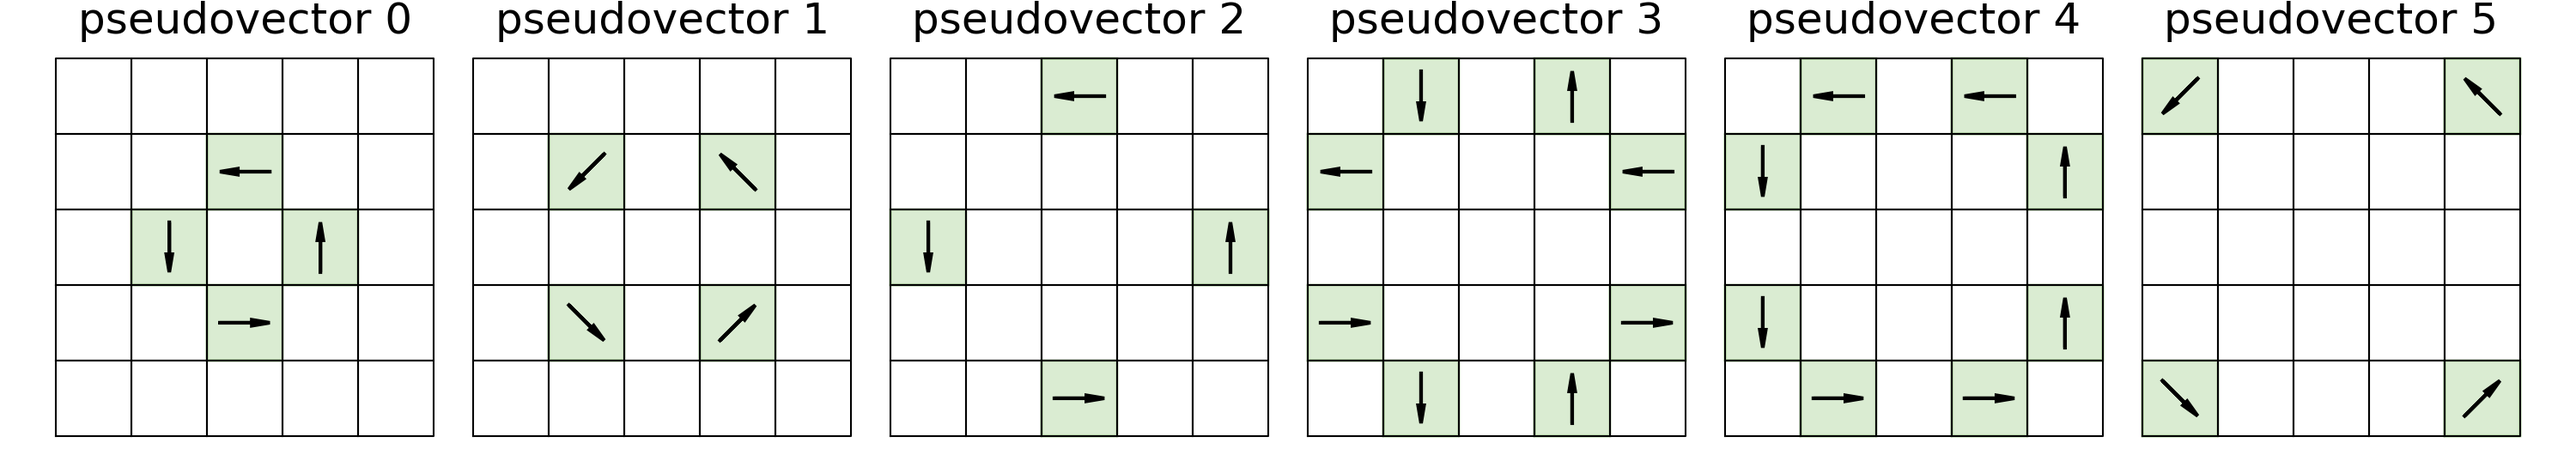
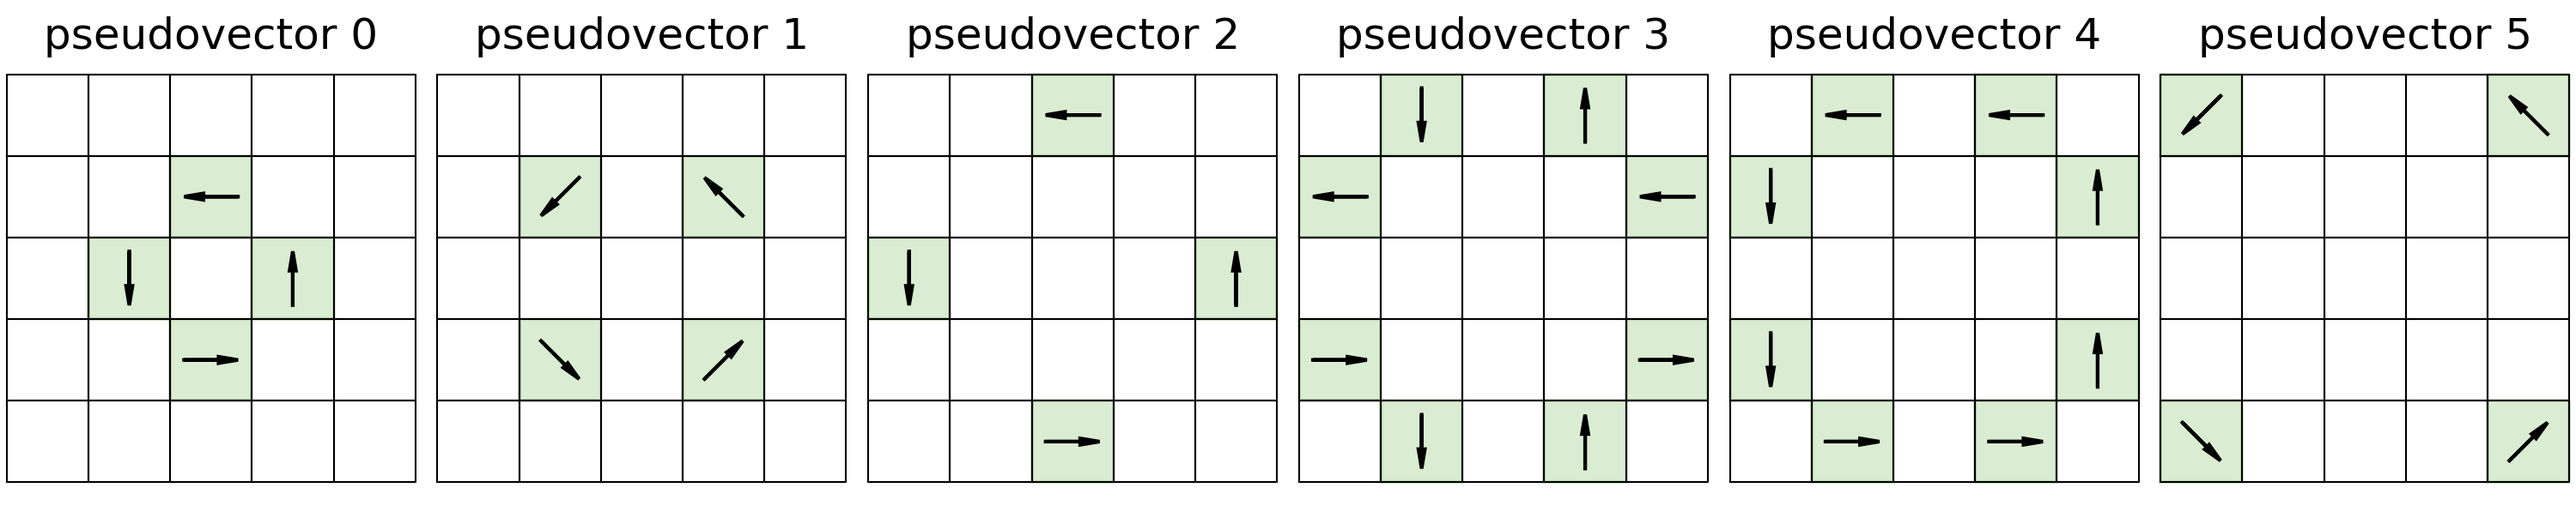
tweak plot layout

Changed region(s): [[0.0, 0.0, 1.0, 0.966]]

diff --git a/notebooks/geometric.py b/notebooks/geometric.py
@@ -506,13 +506,11 @@ def plot_nothing(ax):
 def plot_filters(filters, names, n):
     assert len(filters) <= n
     bar = 10. # figure width in inches?
-    fig, axes = plt.subplots(1, n, figsize = (bar, 0.1 + bar / n)) # magic
+    fig, axes = plt.subplots(1, n, figsize = (bar, 0.03 * bar + bar / n)) # magic
     if n == 1:
         axes = [axes, ]
-    bar = 0.2
-    foo = bar / n # fractional?
-    plt.subplots_adjust(left=foo/2, right=1-foo/2, wspace=foo,
-                        bottom=foo)
+    plt.subplots_adjust(left=0.001, right=0.999, wspace=0.2/n,
+                        bottom=0.001, top=0.999-0.1, hspace=0)
     for i, (ff, name) in enumerate(zip(filters, names)):
         if ff.k == 0:
             plot_scalar_filter(ff, name, ax=axes[i])
@@ -758,12 +756,10 @@ def plot_images(images):
     m = np.ceil(nim / n).astype(int)
     print(len(images), n, m)
     bar = 10. # inches?
-    fig, axes = plt.subplots(m, n, figsize = (bar, 0.5 + 0.5 * m + bar * m / n)) # magic
+    fig, axes = plt.subplots(m, n, figsize = (bar, 0.2 * m + bar * m / n)) # magic
     axes = np.atleast_1d(axes).flatten()
-    bar = 0.2 / m
-    foo = 0.2 / n # fractional?
-    plt.subplots_adjust(left=foo/2, right=1-foo/2, wspace=foo,
-                        bottom=bar, hspace=bar)
+    plt.subplots_adjust(left=0.001, right=0.999, wspace=0.2/n,
+                        bottom=0.001, top=0.999-0.07/m, hspace=0.2/m)
     for ax, (image, latex) in zip(axes, images):
         plot_image(image, ax=ax)
         finish_plot(ax, "$" + latex + "$", image.pixels(), image.D)
